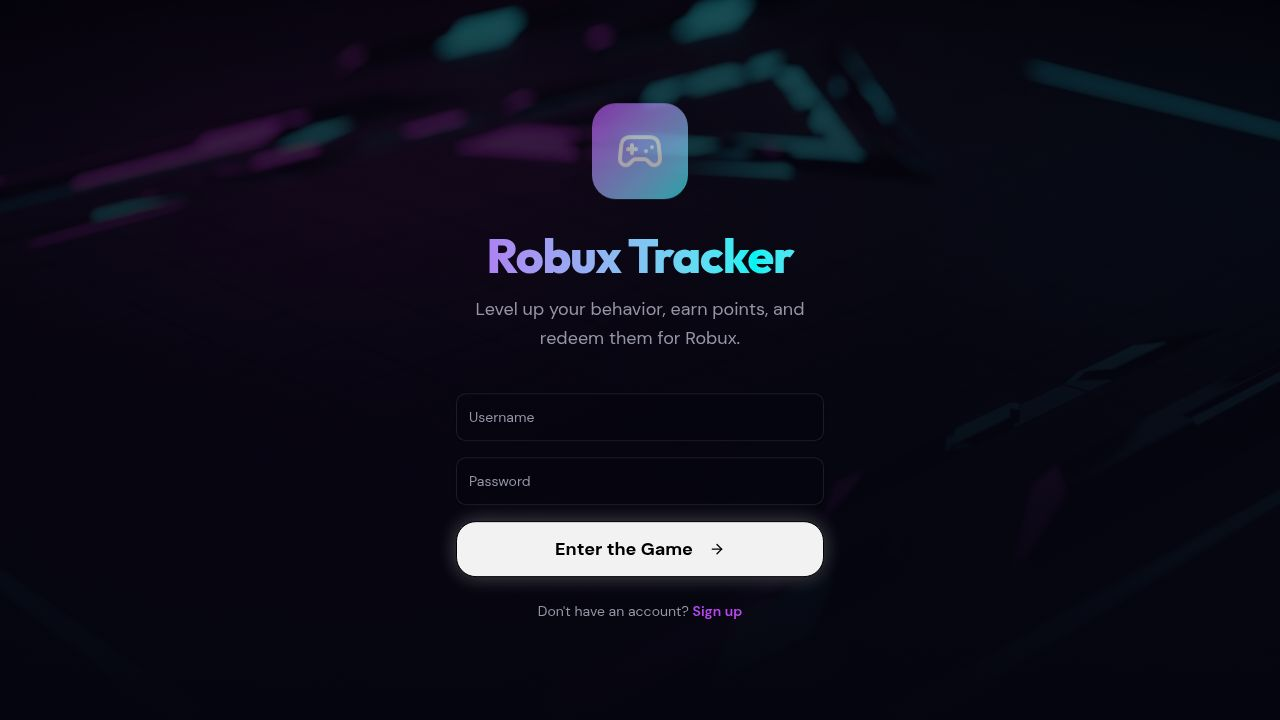
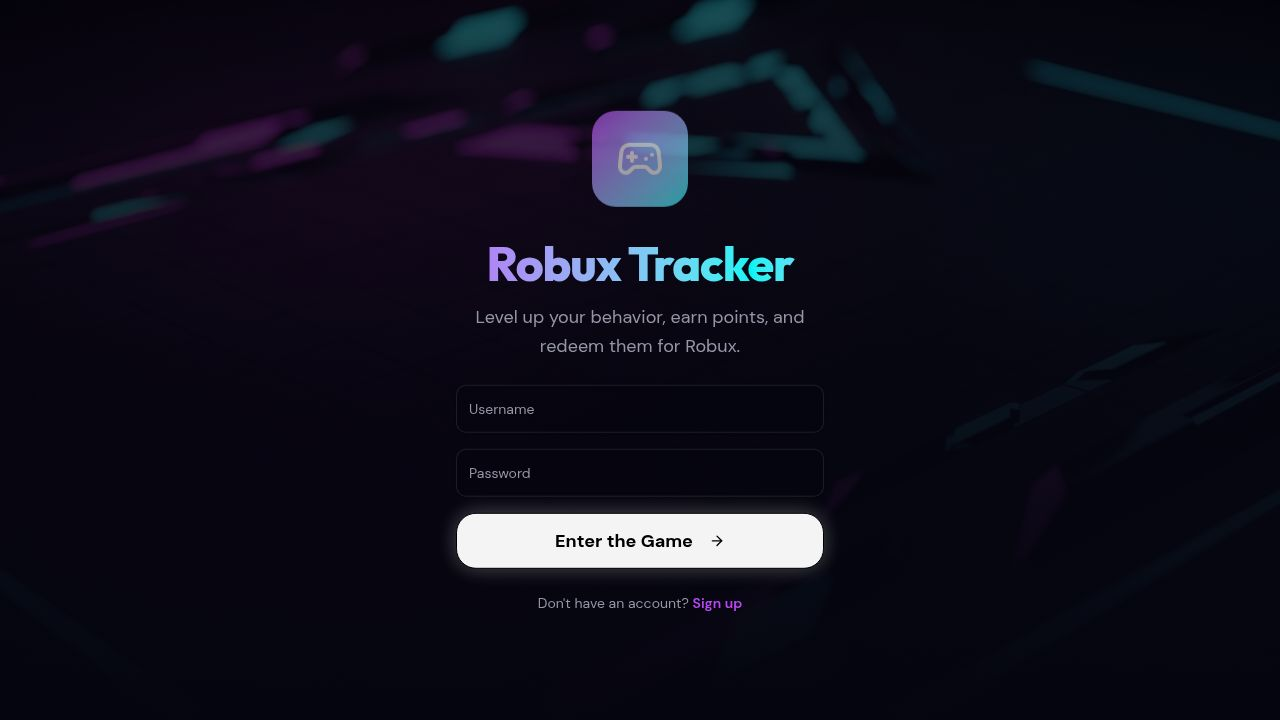
Add error messages to the login form and display them
Update Login.tsx to include error state management, display error messages on the UI, and improve error handling for various authentication failures.

Replit-Commit-Author: Agent
Replit-Commit-Session-Id: 14a6f09a-39ed-437b-92fd-45b8bb5d248a
Replit-Commit-Checkpoint-Type: full_checkpoint
Replit-Commit-Event-Id: b3306086-951b-49d7-91f4-bc9b83881675
Replit-Commit-Screenshot-Url: https://storage.googleapis.com/screenshot-production-us-central1/cddb9c64-d87a-465e-9912-60fb6fb9075c/14a6f09a-39ed-437b-92fd-45b8bb5d248a/PCuZyRn
Replit-Helium-Checkpoint-Created: true

diff --git a/artifacts/points-tracker/src/pages/Login.tsx b/artifacts/points-tracker/src/pages/Login.tsx
@@ -2,7 +2,7 @@ import { useState } from "react";
 import { motion } from "framer-motion";
 import { Button } from "@/components/ui/button";
 import { Input } from "@/components/ui/input";
-import { Gamepad2, ArrowRight, Loader2 } from "lucide-react";
+import { Gamepad2, ArrowRight, Loader2, AlertCircle } from "lucide-react";
 import { toast } from "sonner";
 
 interface LoginProps {
@@ -14,17 +14,19 @@ export function Login({ onLogin }: LoginProps) {
   const [isSignup, setIsSignup] = useState(false);
   const [username, setUsername] = useState("");
   const [password, setPassword] = useState("");
+  const [error, setError] = useState<string | null>(null);
 
   async function handleSubmit(e: React.FormEvent) {
     e.preventDefault();
+    setError(null);
     
     if (!username.trim() || !password.trim()) {
-      toast.error("Please fill in all fields");
+      setError("Please fill in all fields");
       return;
     }
 
     if (isSignup && password.length < 6) {
-      toast.error("Password must be at least 6 characters");
+      setError("Password must be at least 6 characters");
       return;
     }
 
@@ -41,16 +43,21 @@ export function Login({ onLogin }: LoginProps) {
 
       if (!response.ok) {
         const data = await response.json();
-        toast.error(data.error || "Authentication failed");
+        const errorMsg = data.error || "Authentication failed";
+        setError(errorMsg);
+        toast.error(errorMsg);
         return;
       }
 
       toast.success(isSignup ? "Account created!" : "Login successful!");
       setUsername("");
       setPassword("");
+      setError(null);
       onLogin();
     } catch (err) {
-      toast.error("Network error, try again");
+      const errorMsg = "Network error, try again";
+      setError(errorMsg);
+      toast.error(errorMsg);
       console.error(err);
     } finally {
       setIsLoading(false);
@@ -83,9 +90,20 @@ export function Login({ onLogin }: LoginProps) {
           Robux Tracker
         </h1>
         
-        <p className="text-muted-foreground text-lg mb-10 leading-relaxed">
+        <p className="text-muted-foreground text-lg mb-6 leading-relaxed">
           {isSignup ? "Create an account to get started" : "Level up your behavior, earn points, and redeem them for Robux."}
         </p>
+
+        {error && (
+          <motion.div
+            initial={{ opacity: 0, y: -10 }}
+            animate={{ opacity: 1, y: 0 }}
+            className="mb-6 p-4 bg-destructive/10 border border-destructive/30 rounded-lg flex items-start gap-3"
+          >
+            <AlertCircle className="w-5 h-5 text-destructive flex-shrink-0 mt-0.5" />
+            <p className="text-destructive text-sm font-medium">{error}</p>
+          </motion.div>
+        )}
 
         <form onSubmit={handleSubmit} className="space-y-4 mb-6">
           <Input
